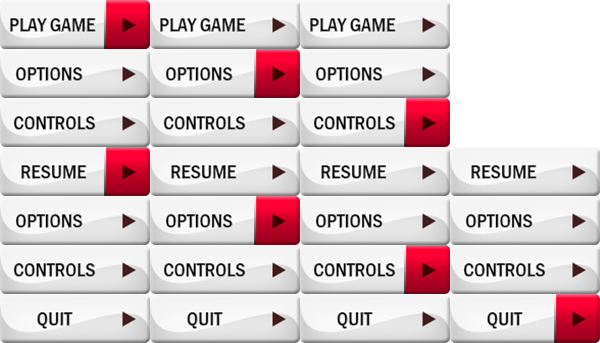
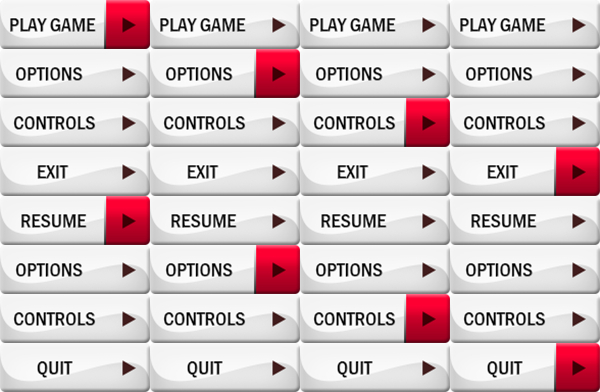
Exit game functionality implemented. Main menu graphic updated.

diff --git a/game/levels/main_menu.dart b/game/levels/main_menu.dart
@@ -17,20 +17,21 @@ class MainMenu extends GameObject{
   bool playGame = false;
   bool options = false;
   bool controls = false;
+  bool exit = false;
   
   MainMenu(){
     width = 150.0;
-    height = 49.0;
+    height = 48.0;
     x = 300.0;
     y = 200.0;
     input = new Input();
     playGame = true;
-    sprite = new SpriteSheet("./content/menu.png",spritex,spritey,150,147);
+    sprite = new SpriteSheet("./content/menu.png",spritex,spritey,150,196);
   }
 
   
   draw(){
-    sprite.drawOnPositionNormal(x-this.width/2, y-this.height/2, 150.0 , 147.0);
+    sprite.drawOnPositionNormal(x-this.width/2, y-this.height/2, 150.0 , 196.0);
   }
   
   
@@ -51,6 +52,12 @@ class MainMenu extends GameObject{
         controls = true;
         sprite.spritex = 300;    
       }
+    
+    else if(input.wasPressed(KeyCode.RIGHT) && controls){
+            controls = false;
+            exit = true;
+            sprite.spritex = 450;    
+          }
       
     if (input.wasPressed(KeyCode.DOWN) && playGame){
       playGame = false;
@@ -62,6 +69,12 @@ class MainMenu extends GameObject{
         options = false;
         controls = true;
         sprite.spritex = 300;    
+      }
+    
+    else if(input.wasPressed(KeyCode.DOWN) && controls){
+        controls = false;
+        exit = true;
+        sprite.spritex = 450;    
       }
     
     
@@ -77,7 +90,13 @@ class MainMenu extends GameObject{
         options = true;
         sprite.spritex = 150;
       }
-     
+    
+    else if(input.wasPressed(KeyCode.LEFT) && exit){
+            exit = false;
+            controls = true;
+            sprite.spritex = 300;
+          }
+    
     if(input.wasPressed(KeyCode.UP) && options){
       options = false;
       playGame = true;
@@ -90,25 +109,17 @@ class MainMenu extends GameObject{
         sprite.spritex = 150;
       }
     
+    else if(input.wasPressed(KeyCode.UP) && exit){
+            exit = false;
+            controls = true;
+            sprite.spritex = 300;
+          }
     
-    //Select 'Play Game'
-    if(
-        //Game.instance.currentLevel == LevelManager.enumMainMenu 
-       Game.instance.state == Game.instance.stateEnumMain
+    //SELECT 'PLAY GAME'
+    if(Game.instance.state == Game.instance.stateEnumMain
         && input.isDown(KeyCode.ENTER) && playGame){
-     // ObjectManager om = ObjectManager.instance;
-     // om.clear();
-     // Game.instance.currentLevel = LevelManager.enumLevelOne;
-     // Game.instance.reloadLevel();
-      //print(input.timeReleased(KeyCode.ENTER));
-     
-      
       
       if(input.timePressed(KeyCode.ENTER) - Game.instance.lastENTER > 0.0){
-              //Game.instance.state = Game.instance.stateEnumMain;
-              //print('Enter pressed');
-              //Game.instance.resetMainMenu = true;
-              //Game.instance.lastENTER = input.timePressed(KeyCode.ENTER);
               Game.instance.state = Game.instance.stateEnumIntro;
               //Game.instance.transition.draw();
               playGame = false;
@@ -117,18 +128,32 @@ class MainMenu extends GameObject{
              }
     }
     
-    
+    //SELECT CONTROLS
     else if(controls && input.wasPressed(KeyCode.ENTER)){
        controls = false;
        Game.instance.state = Game.instance.stateEnumControls;
+       Game.instance.lastENTER = input.timePressed(KeyCode.ENTER);
+       playGame = true;
      }
      
+    //SELECT OPTIONS
     else if(options && input.wasPressed(KeyCode.ENTER)){
       options = false;
       playGame = true;
       Game.instance.state = Game.instance.stateEnumOptions;
       Game.instance.lastENTER = input.timePressed(KeyCode.ENTER);
-      //print(Game.instance.lastENTER);
+    }
+    
+    
+    //EXIT GAME
+    else if(exit && input.wasPressed(KeyCode.ENTER)){
+      chrome.app.window.current().close();
+    }
+    
+    else if(input.wasPressed(KeyCode.ESC)){
+      if(input.timePressed(KeyCode.ENTER) - Game.instance.lastENTER > 0.0){
+        chrome.app.window.current().close();
+      }
     }
     
   }

diff --git a/game/levels/options_screen.dart b/game/levels/options_screen.dart
@@ -62,21 +62,24 @@ class Options extends GameObject{
   //down
   //  if(Game.instance.state == Game.instance.stateEnumOptions){
       
-     if(back && Game.instance.input.isDown(KeyCode.ENTER)){
-        //print('options update');
-        //print( Game.instance.input.timeReleased(KeyCode.ENTER));
-        //Game.instance.lastENTER = input.timePressed(KeyCode.ENTER);
+     if(back && Game.instance.input.wasPressed(KeyCode.ENTER)){
         
-        if(input.timePressed(KeyCode.ENTER) - Game.instance.lastENTER > 0.0){
-         Game.instance.state = Game.instance.stateEnumMain;
-         //print('Enter pressed');
-         Game.instance.resetMainMenu = true;
-         Game.instance.lastENTER = input.timePressed(KeyCode.ENTER);
+        if(input.timePressed(KeyCode.ENTER) - Game.instance.lastENTER > 0.0 &&
+          Game.instance.currentLevel > LevelManager.enumMainMenu){
+          Game.instance.state = Game.instance.stateEnumPause;
+         //Game.instance.resetMainMenu = true;
+          Game.instance.lastENTER = input.timePressed(KeyCode.ENTER);
         }
-       
-        //Game.instance.state = Game.instance.stateEnumMain;
+        
+        else if(input.timePressed(KeyCode.ENTER) - Game.instance.lastENTER > 0.0 &&
+          Game.instance.currentLevel == LevelManager.enumMainMenu){
+          Game.instance.state = Game.instance.stateEnumMain;
+          Game.instance.resetMainMenu = true;
+          Game.instance.lastENTER = input.timePressed(KeyCode.ENTER);
+        }
+
       }
-      
+     /* 
       else 
     
     if (input.wasPressed(KeyCode.ESC) && Game.instance.state == Game.instance.stateEnumPlay){
@@ -86,26 +89,23 @@ class Options extends GameObject{
            Game.instance.resetMainMenu = true;
            Game.instance.lastESC = input.timePressed(KeyCode.ESC);
          }
-      
+      */
       
       else if((input.wasPressed(KeyCode.ESC) || input.wasPressed(KeyCode.BACKSPACE)) &&
-              Game.instance.currentLevel == LevelManager.enumMainMenu){
+        Game.instance.currentLevel == LevelManager.enumMainMenu){
         Game.instance.state = Game.instance.stateEnumMain;
-        //Game.instance.resetMainMenu = true;
-        Game.instance.gameMenu = new InGameMenu();
+        Game.instance.resetMainMenu = true;
         Game.instance.lastESC = input.timePressed(KeyCode.ESC);
       }
+     
       else if (input.wasPressed(KeyCode.ESC) || input.wasPressed(KeyCode.BACKSPACE)){
-       // normContext.clearRect(x, y, width, height);
-        //normContext.restore();
-      Game.instance.state = Game.instance.stateEnumPause; 
-      //Game.instance.resetMainMenu = true;
-      Game.instance.gameMenu = new InGameMenu();
-      Game.instance.lastESC = input.timePressed(KeyCode.ESC);
+        Game.instance.state = Game.instance.stateEnumPause; 
+        Game.instance.resetMainMenu = true;
+        //Game.instance.gameMenu = new InGameMenu();
+        Game.instance.lastESC = input.timePressed(KeyCode.ESC);
       
     }
 
- //   }
     
     
     

diff --git a/game/objects/ingame_menu.dart b/game/objects/ingame_menu.dart
@@ -10,7 +10,7 @@ class InGameMenu extends GameObject{
   double height;
   
   int spritex=0;
-  int spritey=147;
+  int spritey=196;
   
   bool resume = false;
   bool options = false;
@@ -19,7 +19,7 @@ class InGameMenu extends GameObject{
   
   InGameMenu(){
     width = 150.0;
-    height = 49.0;
+    height = 48.0;
     x = 300.0;
     y = 200.0;
     input = new Input();
@@ -128,18 +128,22 @@ class InGameMenu extends GameObject{
   //Select 'Resume'
   if(resume && input.wasPressed(KeyCode.ENTER)){
     Game.instance.state = Game.instance.stateEnumPlay;
+    Game.instance.lastENTER = input.timePressed(KeyCode.ENTER);
+    Game.instance.resetMainMenu = true;
   }
   
   else if(input.wasPressed(KeyCode.ESC)){
     if(input.timePressed(KeyCode.ESC) - Game.instance.lastESC > 0.0){
       Game.instance.lastESC = input.timePressed(KeyCode.ESC);
       Game.instance.state = Game.instance.stateEnumPlay;
+      Game.instance.resetMainMenu = true;
     }
   }
   
   else if(controls && input.wasPressed(KeyCode.ENTER)){
     Game.instance.state = Game.instance.stateEnumControls;
     Game.instance.lastENTER = input.timePressed(KeyCode.ENTER);
+    Game.instance.resetMainMenu = true;
     //normContext.save();
   }
   
@@ -148,6 +152,7 @@ class InGameMenu extends GameObject{
         resume = true;
         Game.instance.state = Game.instance.stateEnumOptions;
         Game.instance.lastENTER = input.timePressed(KeyCode.ENTER);
+        Game.instance.resetMainMenu = true;
         //print(Game.instance.lastENTER);
       }
   
@@ -158,6 +163,8 @@ class InGameMenu extends GameObject{
     Game.instance.currentLevel = LevelManager.enumMainMenu;
     Game.instance.state = Game.instance.stateEnumMain;
     Game.instance.lastENTER = input.timePressed(KeyCode.ENTER);
+    Game.instance.resetMainMenu = true;
+    Game.instance.menu.playGame = true;
   }
   
     }

diff --git a/game/levels/controls.dart b/game/levels/controls.dart
@@ -56,7 +56,7 @@ class Controls extends GameObject{
        
            Game.instance.state = Game.instance.stateEnumPause; 
            Game.instance.lastESC = input.timePressed(KeyCode.ESC);
-           //Game.instance.resetMainMenu = true;
+           Game.instance.resetMainMenu = true;
            //normContext.clearRect(x, y, width, height);
          }
       
@@ -65,7 +65,7 @@ class Controls extends GameObject{
               Game.instance.currentLevel > LevelManager.enumMainMenu){
         Game.instance.state = Game.instance.stateEnumPause;
         Game.instance.lastESC = input.timePressed(KeyCode.ESC);
-       // Game.instance.resetMainMenu = true;
+        Game.instance.resetMainMenu = true;
       }
       else if (input.wasPressed(KeyCode.ESC) || input.wasPressed(KeyCode.BACKSPACE)){
        // normContext.clearRect(x, y, width, height);

diff --git a/app/index.html b/app/index.html
@@ -11,8 +11,8 @@
       <canvas id='canvas' tabindex ='0'></canvas>
     </div>
         
-    <script src="main.dart" type="application/dart"></script>   
-    <!--  <script src = "main.dart.precompiled.js"></script>    -->
+      <script src="main.dart" type="application/dart"></script>
+     <!--   <script src = "main.dart.precompiled.js"></script>    -->
      <!-- <script src = "main.dart.js"></script>  --> 
      
     

diff --git a/game/game.dart b/game/game.dart
@@ -153,6 +153,9 @@ void update(double dt) {
       resetMainMenu = false;
       menu.update(dt);
       menu.draw();
+      
+     
+         
   }
   
     
@@ -203,11 +206,12 @@ void update(double dt) {
       lastOxygenTick += 250;
           oxygen -= 0;
     }
-    /*
+    
     if(resetMainMenu){
       gameMenu = new InGameMenu();
+      resetMainMenu = false;
     }
-    */
+    
   }
   
   
